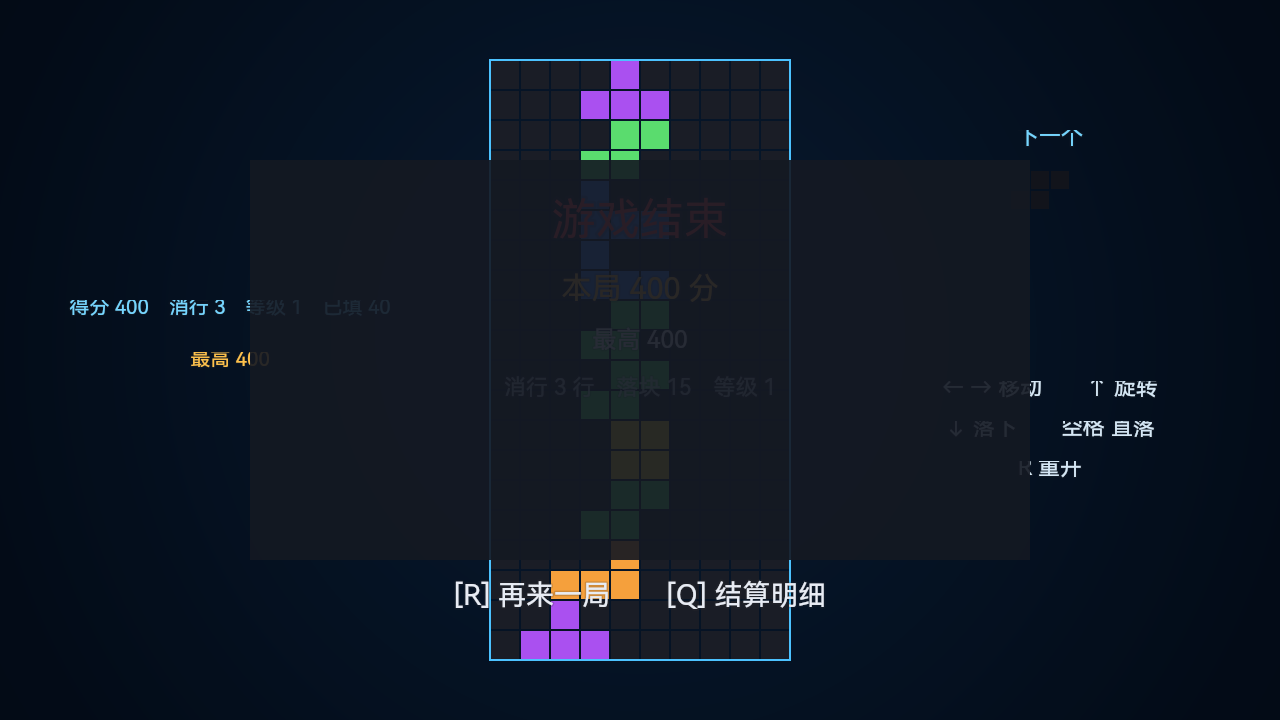
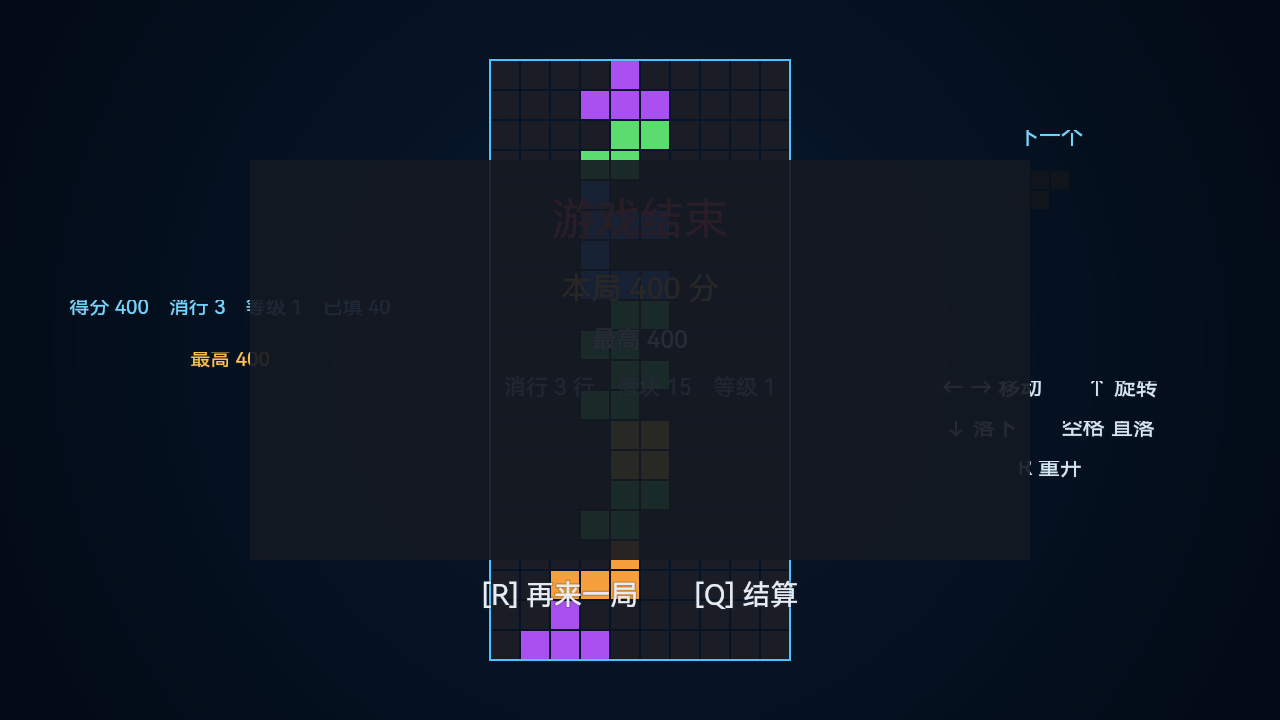
feat(tetris): 真结算接通 —— 服务端图监听 tetris_settle → Victory → 结算关卡
链路：Lua Q 键双形态 pcall 发信号 → 服务端图 1082130480（12 节点）
     monitor_signal(tetris_settle) → Set Player Settlement Success Status(Victory=4101) → Settle Stage

- examples/tetris-settle/：gsts.config.ts + src/resources/signals.ts(defineSignal) + src/graph.ts
- 注入走 injectGilFile(…, outPath)（该路径无 CLI --output），候选链全程 /tmp/ts-cand/ 逐关 guard
- 挂载：assets:mounts attach 1090519041 --def → target=1090519041 kind=def graphs=1082130480
- 读图核验（真图回读）：monitor_signal → Victory(4101) → Settle Stage；玩家来源
  getListOfPlayerEntitiesOnTheField + getCorrespondingValueFromList（不依赖挂载宿主是玩家）
- 顺序按官方文档：先设结算状态、后调结算关卡（concepts.md:7666）
- 地图 226,248 B(1d6e1141) → 233,198 B(b8c07c58)，Save_Level==Temp

未验证：真机官方结算页是否弹出、game.ServerSignal 真机形态（Lua 双探测已覆盖）

Changed region(s): [[0.3438, 0.7944, 0.5, 0.8556], [0.5312, 0.7944, 0.6562, 0.8556]]

diff --git a/examples/tetris-settle/src/graph.ts b/examples/tetris-settle/src/graph.ts
@@ -1,0 +1,34 @@
+// 俄罗斯方块「真结算」服务端节点图（地图 hl 1073741834，图 id 1082130480）
+//
+// 入口：监听信号 tetris_settle（空参，已在信号管理器注册）
+// 链路：monitor_signal → set_player_settlement_success_status(Victory) → settle_stage
+//
+// 顺序依据（不是随手写的）：官方文档 docs/ui-tutorial/official-guide-concepts.md:7666
+//   「关卡结算状态需要在游玩过程中动态修改，在调用结算关卡节点后，会按各玩家当前的结算状态进行结算」
+//   ⇒ 必须先设状态，再调结算关卡；反过来状态不会被读到。
+// 玩家实体的取法与 examples/lantern/src/game.ts:88-93、examples/yunjie/src/game.ts:56-66 一致
+//   （getListOfPlayerEntitiesOnTheField + getCorrespondingValueFromList，避开 PlayerEntity 品牌类型不可构造的问题）
+import { g } from 'genshin-ts/runtime/core'
+import { SettlementStatus } from 'genshin-ts/definitions/enum'
+import { Signal } from './resources/signals.js'
+
+const graph = g
+  .server({ id: 1082130480 })
+  .onSignal(Signal.tetris_settle, (_evt: any, f: any) => {
+    // 入口打点：真机日志里看到这一行才说明图真的执行了
+    f.printString('settle-recv')
+    const players = f.getListOfPlayerEntitiesOnTheField()
+    if (f.getListLength(players) > 0n) {
+      f.setPlayerSettlementSuccessStatus(
+        f.getCorrespondingValueFromList(players, 0n),
+        SettlementStatus.Victory
+      )
+      f.printString('settle-victory')
+    } else {
+      f.printString('settle-noplayer')
+    }
+    f.settleStage()
+    f.printString('settle-stage')
+  })
+
+export default graph

diff --git a/examples/tetris-settle/gsts.config.ts b/examples/tetris-settle/gsts.config.ts
@@ -1,0 +1,17 @@
+import type { GstsConfig } from '../../src/compiler/gsts_config.js'
+
+// 俄罗斯方块「真结算」服务端图：监听 tetris_settle → 设胜利状态 → 结算关卡
+// 目标地图 hl 1073741834；图 id 1082130480（避开 1073741825–1938 的 UI/脚本段与 1082130433+ 造物段）
+const config: GstsConfig = {
+  compileRoot: './src',
+  entries: ['.'],
+  outDir: './dist',
+  inject: {
+    gameRegion: 'China',
+    playerId: 110170759,
+    mapId: 1073741834,
+    nodeGraphId: 1082130480
+  }
+}
+
+export default config

diff --git a/examples/tetris-settle/src/resources/signals.ts b/examples/tetris-settle/src/resources/signals.ts
@@ -1,0 +1,8 @@
+// @gsts:signals
+
+import { defineSignal } from 'genshin-ts/runtime/core'
+
+// 与地图 hl（1073741834）里已注册的 tetris_settle 完全一致：空参
+export const Signal = {
+  "tetris_settle": defineSignal("tetris_settle", []),
+} as const
